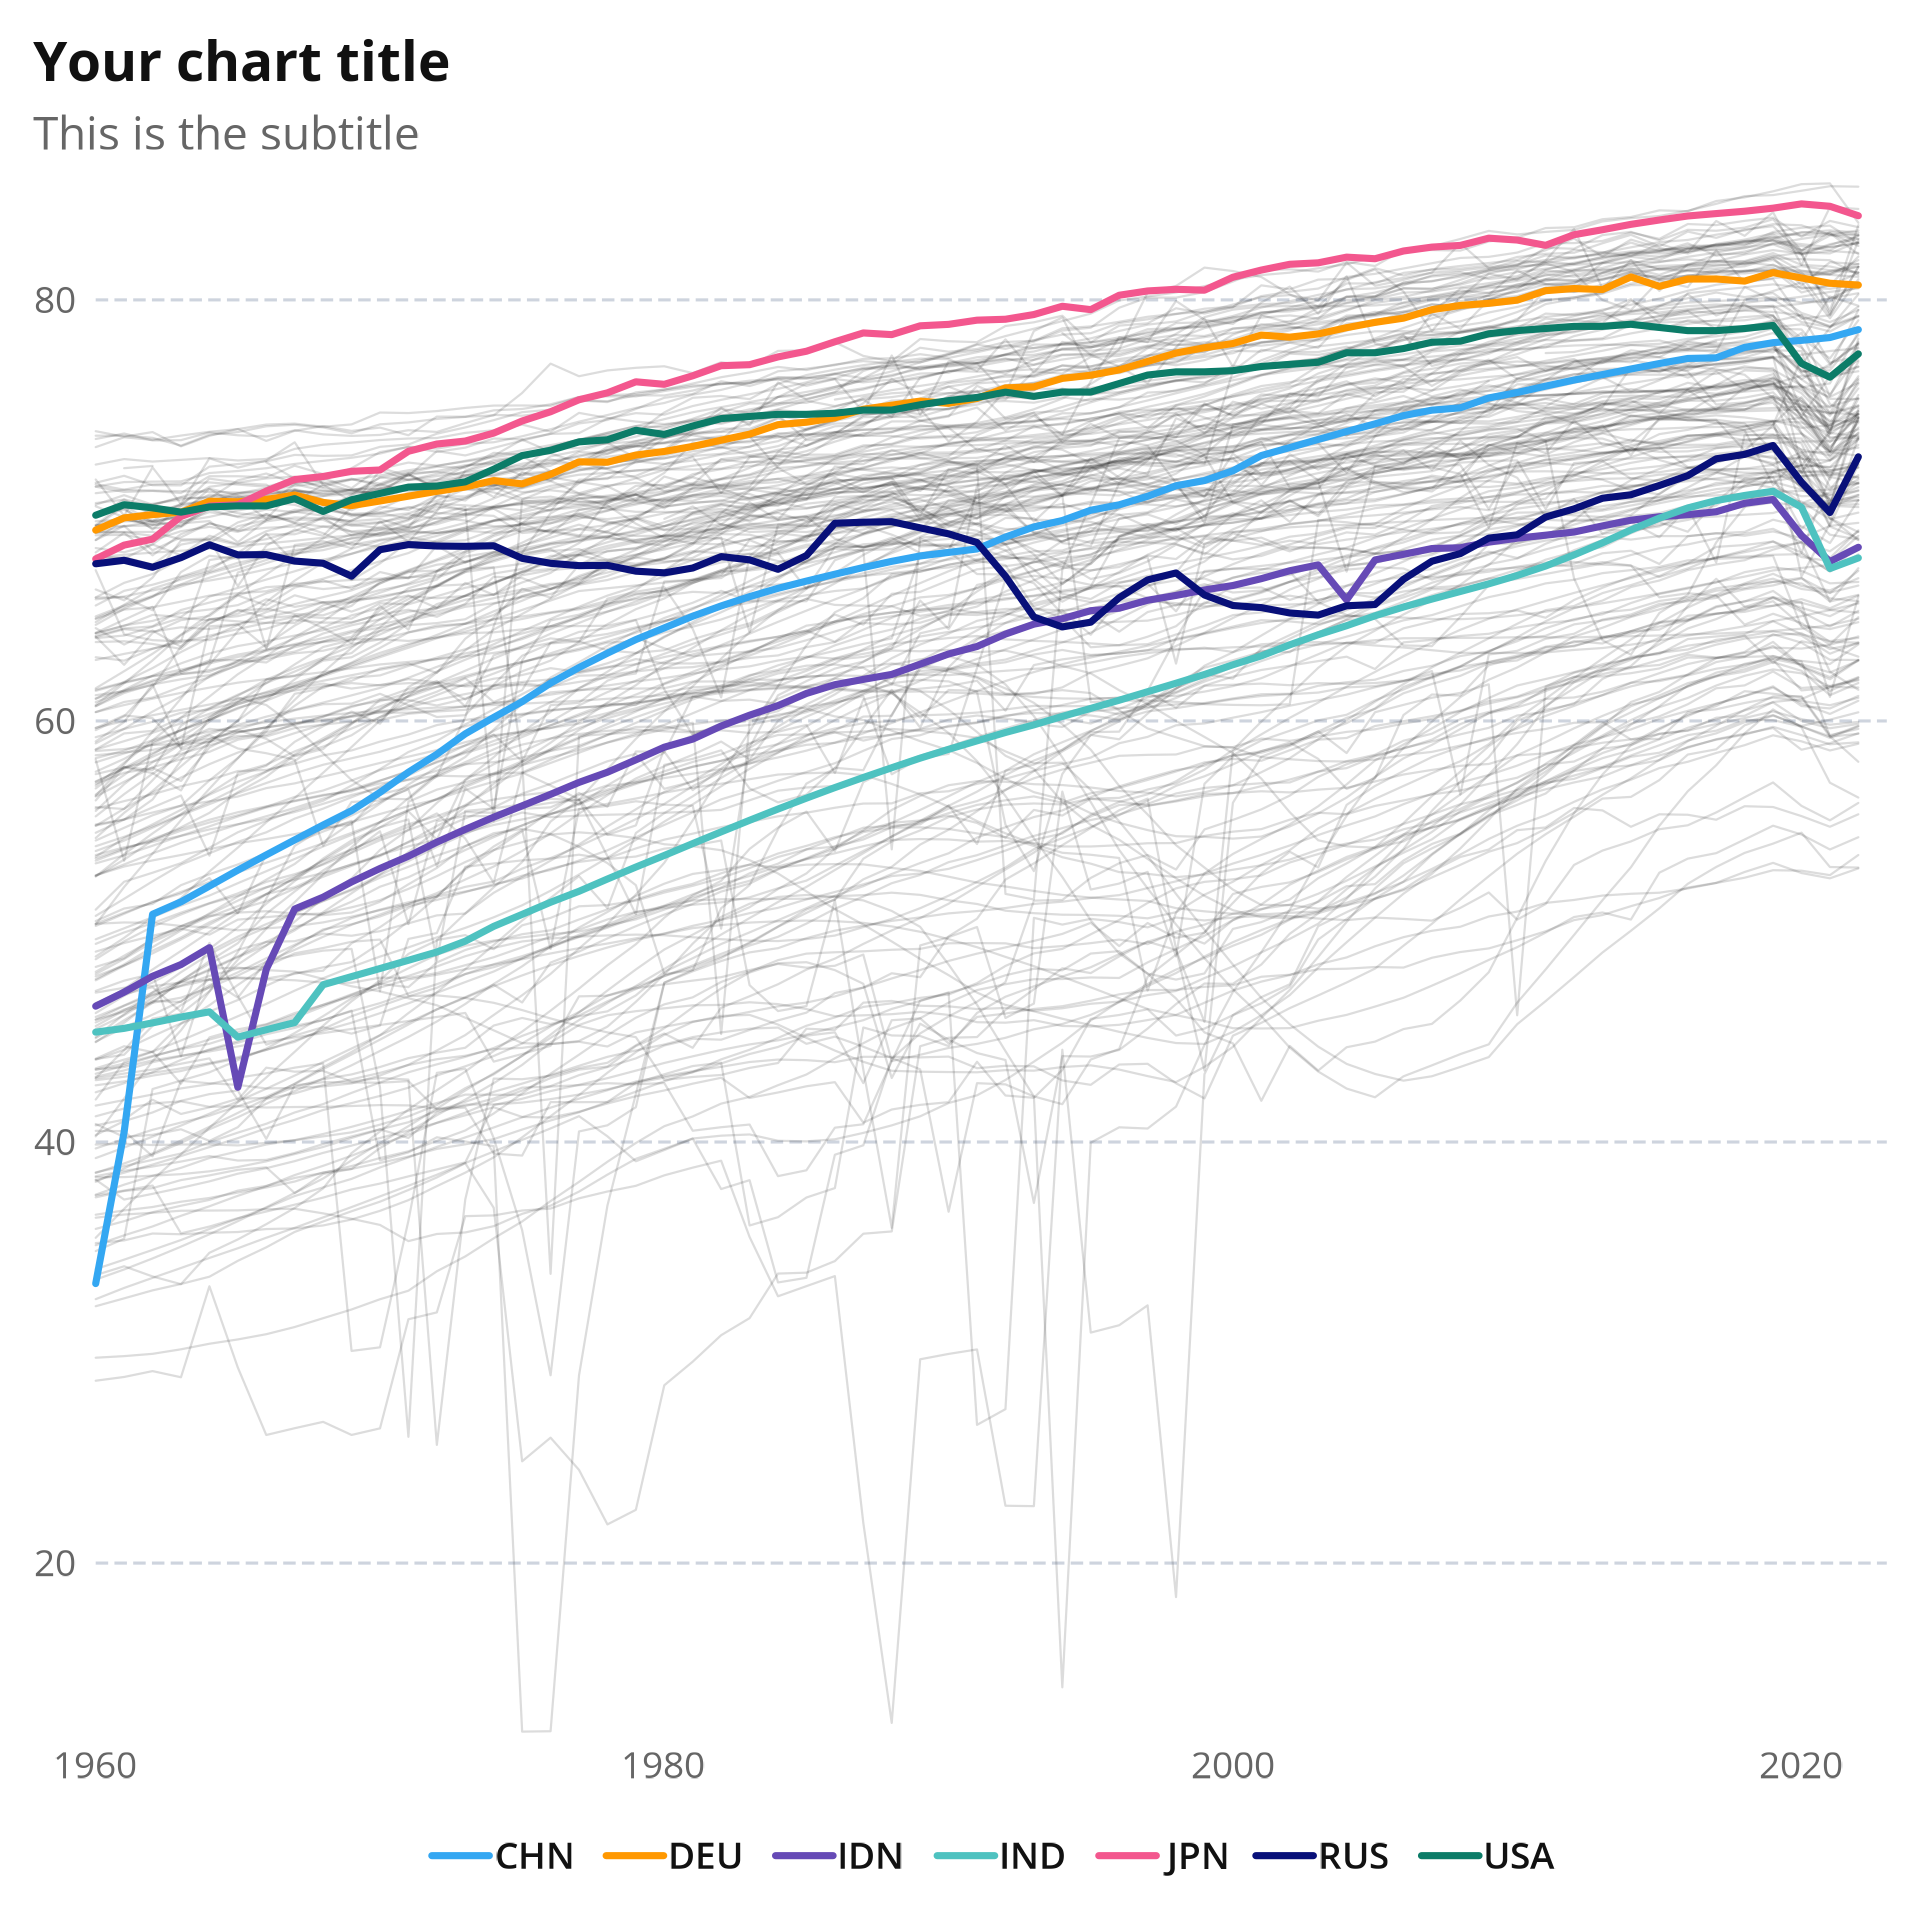
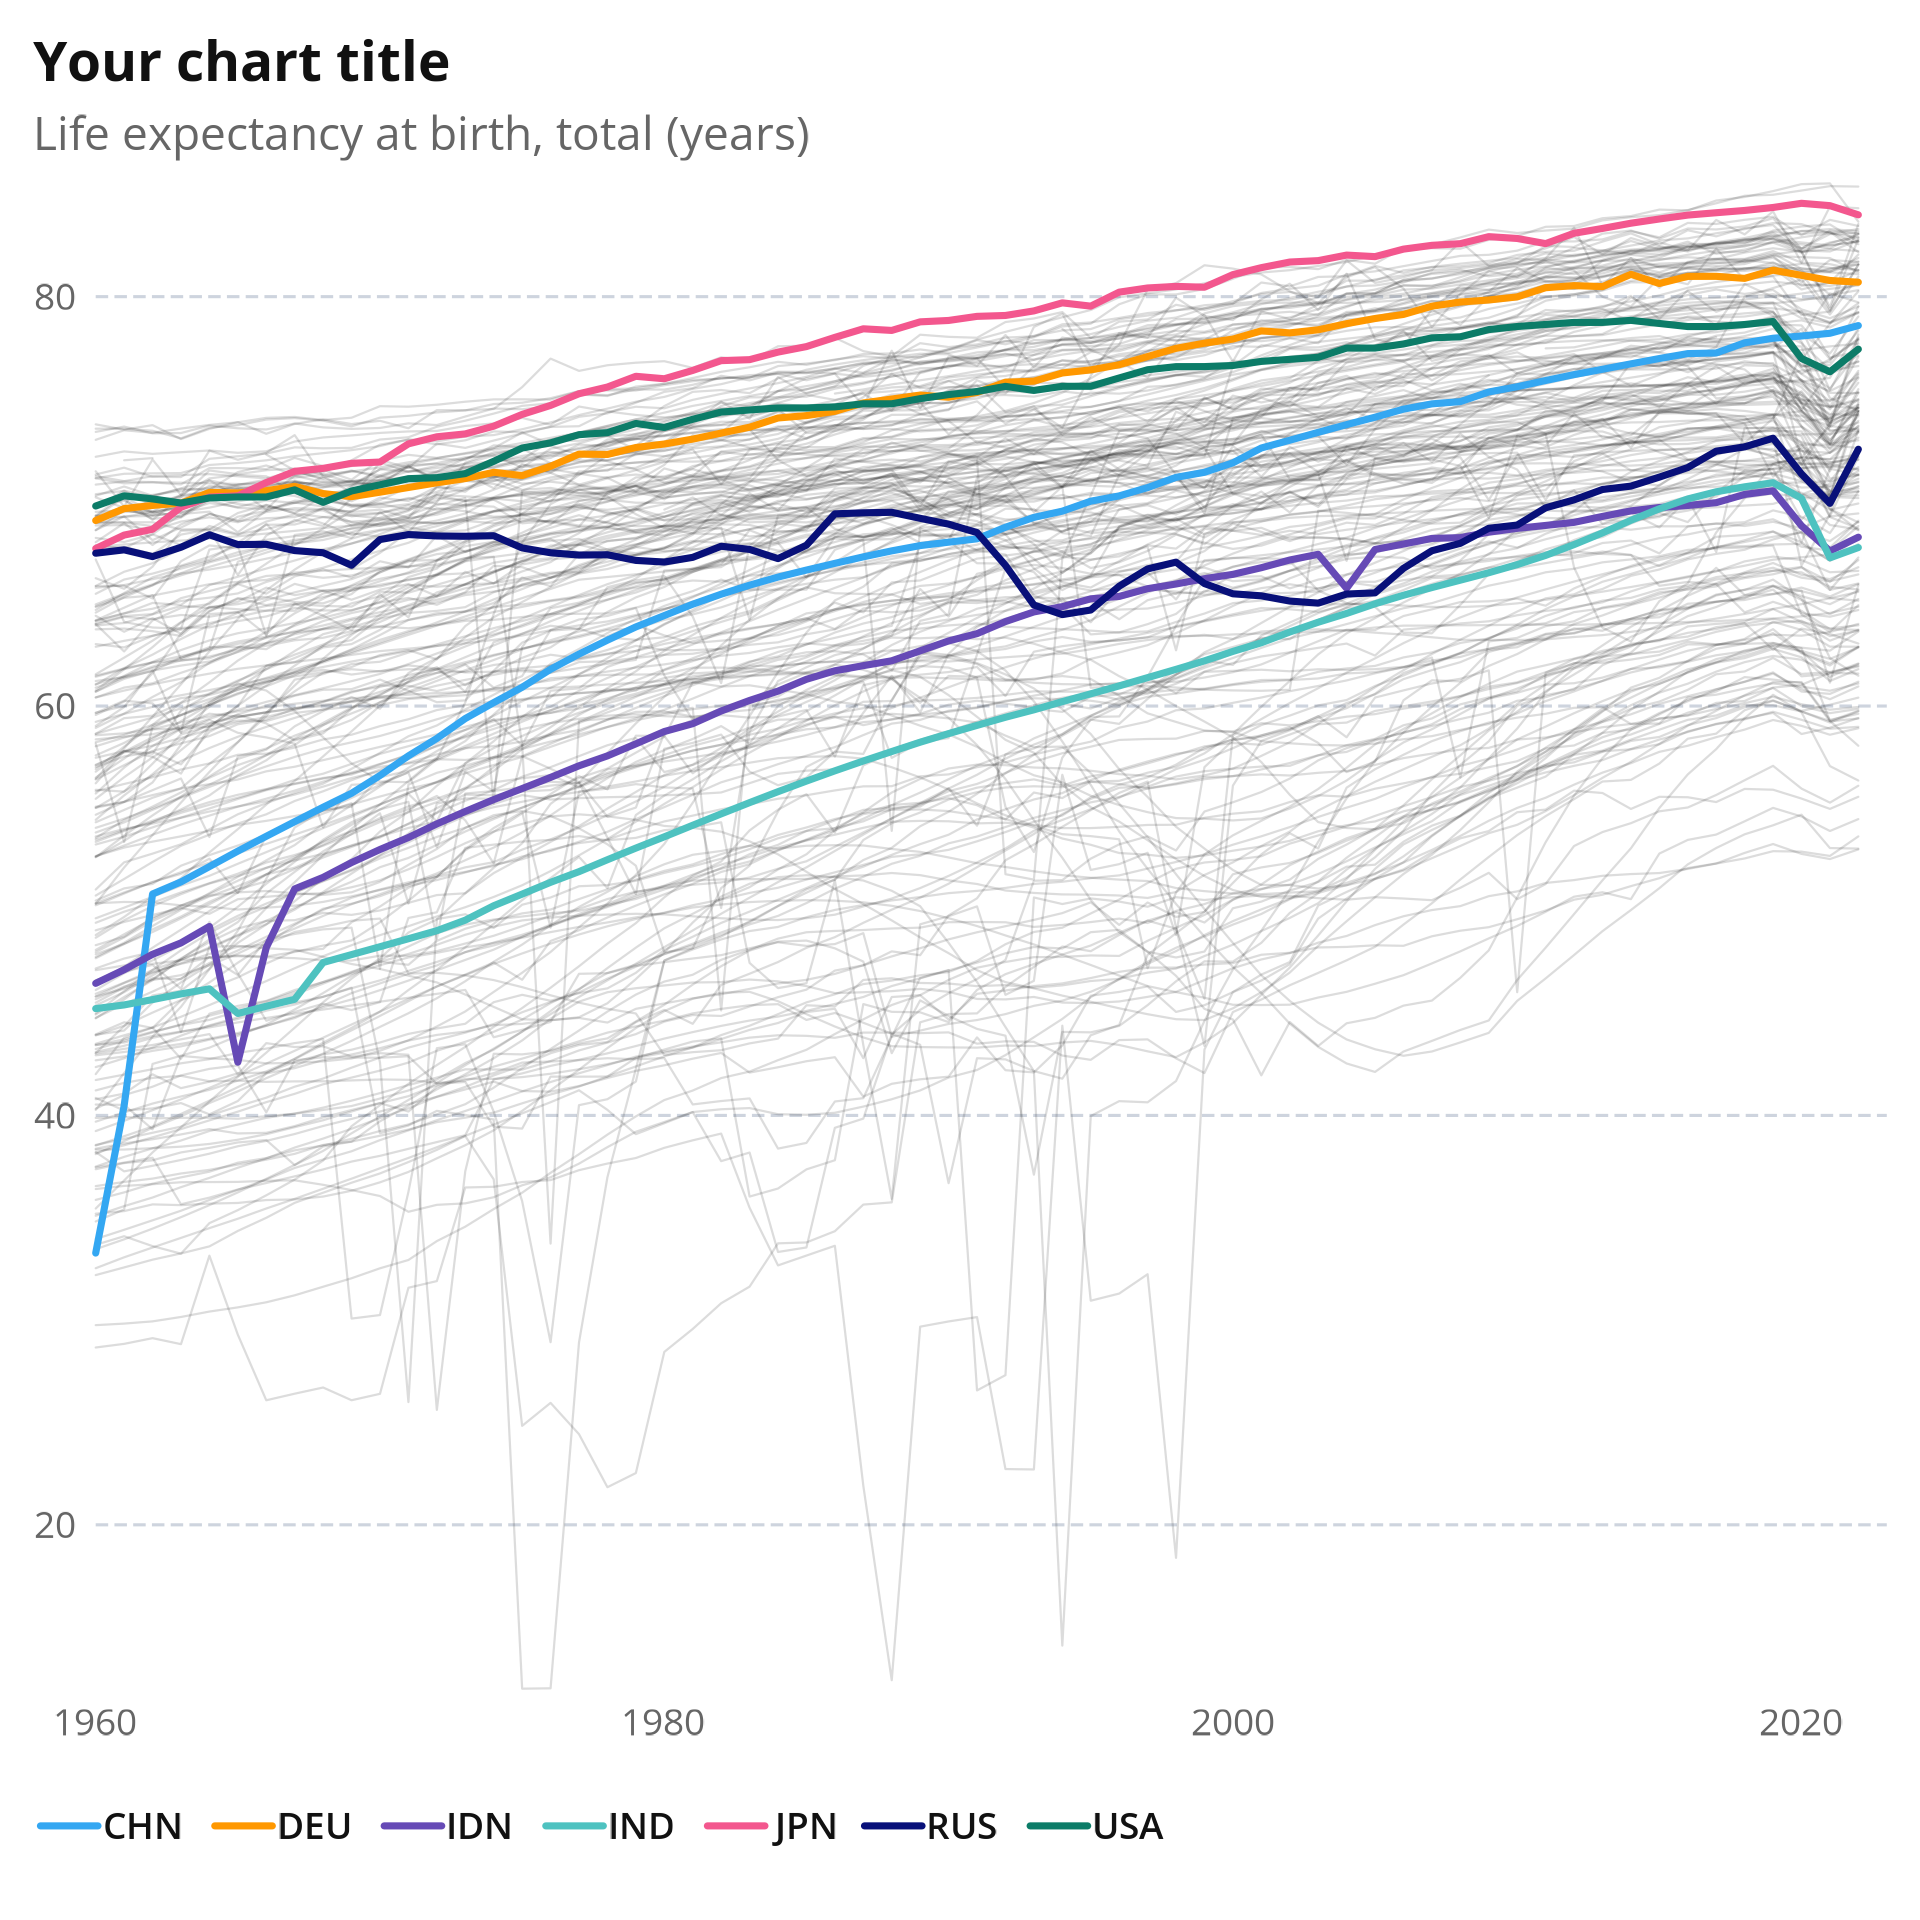
Warnings for zero lines

diff --git a/README.md b/README.md
@@ -39,9 +39,9 @@ ggplot(lifexp, aes(x = date, y = SP.DYN.LE00.IN, color = iso3c)) +
   theme_wb(chartType = "line") +
   geom_line(data = life.expectancy, linejoin = "round", lineend = "round", color = WBCOLORS$darkest, alpha = 0.15, linewidth = 0.25, ggplot2::aes(group = iso3c)) +
   geom_line(linejoin = "round", lineend = "round") +
-  ylab("Life expectancy at birth, total (years)") +
-  ggtitle("Your chart title", subtitle = "This is the subtitle") +
-  theme(legend.title = element_blank())
+  ggtitle("Your chart title", subtitle = "Life expectancy at birth, total (years)") +
+  theme(legend.title = element_blank()) +
+  scale_color_wb_d()
 ```
 
 ![A line chart showing country life expectancy time series](images/line.png)
@@ -50,7 +50,7 @@ With `chartType = "bar"`, both vertical and horizontal grid lines are removed, t
 
 For bar charts, the x aesthetic should be mapped to a numerical variable, and the y aesthetic to a discrete variable.
 
-The World Bank data visualization style calls for value labels next to the bars, which you can add with ggplot2's `geom_text()` (the default font size, font family, color and alignment (hjust) of `geom_text()` are modified by the theme). If some of the labels are cut off, you can add more space on the right of the chart with `xExpansion`.
+The World Bank data visualization style calls for value labels next to the bars, which you can add with ggplot2's `geom_text()` (the default font size, font family, color and alignment (hjust) of `geom_text()` are modified by the theme). If some of the labels are cut off, you can add margin the right of the chart with `xExpansion`.
 
 ```
 country.latitudes <- head(dplyr::arrange(countries.edited, desc(latitude)),10)
